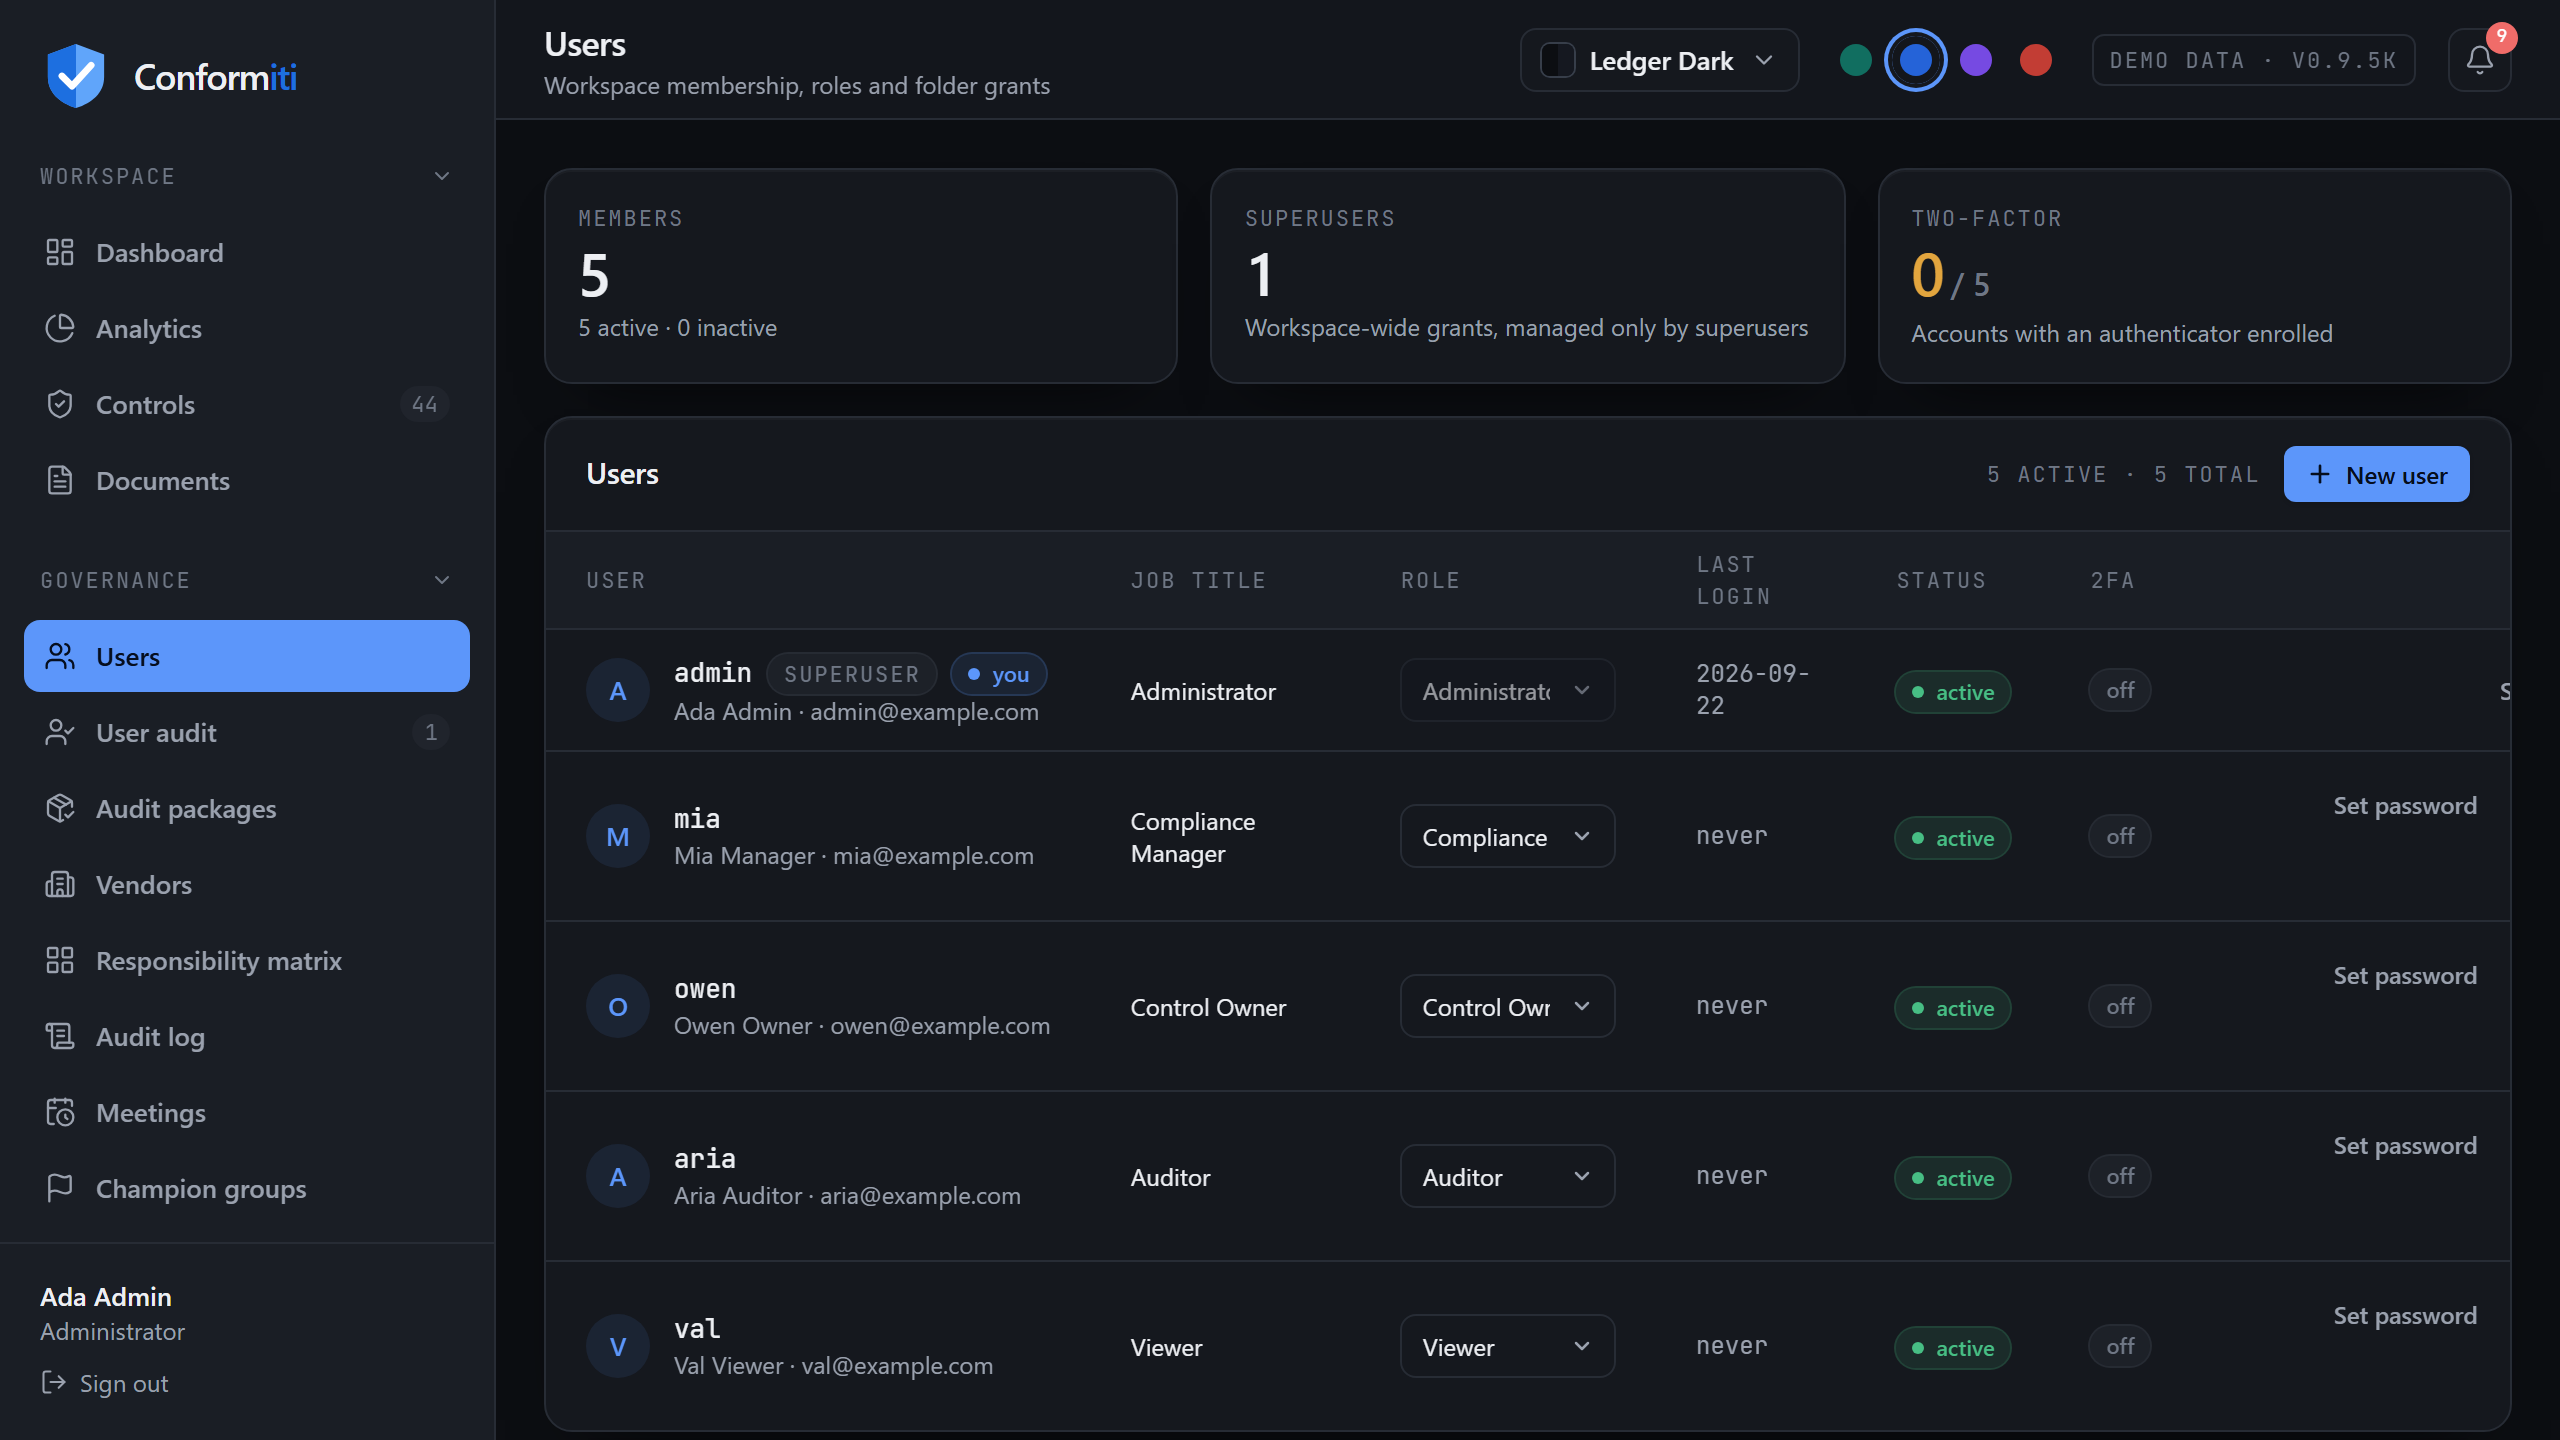
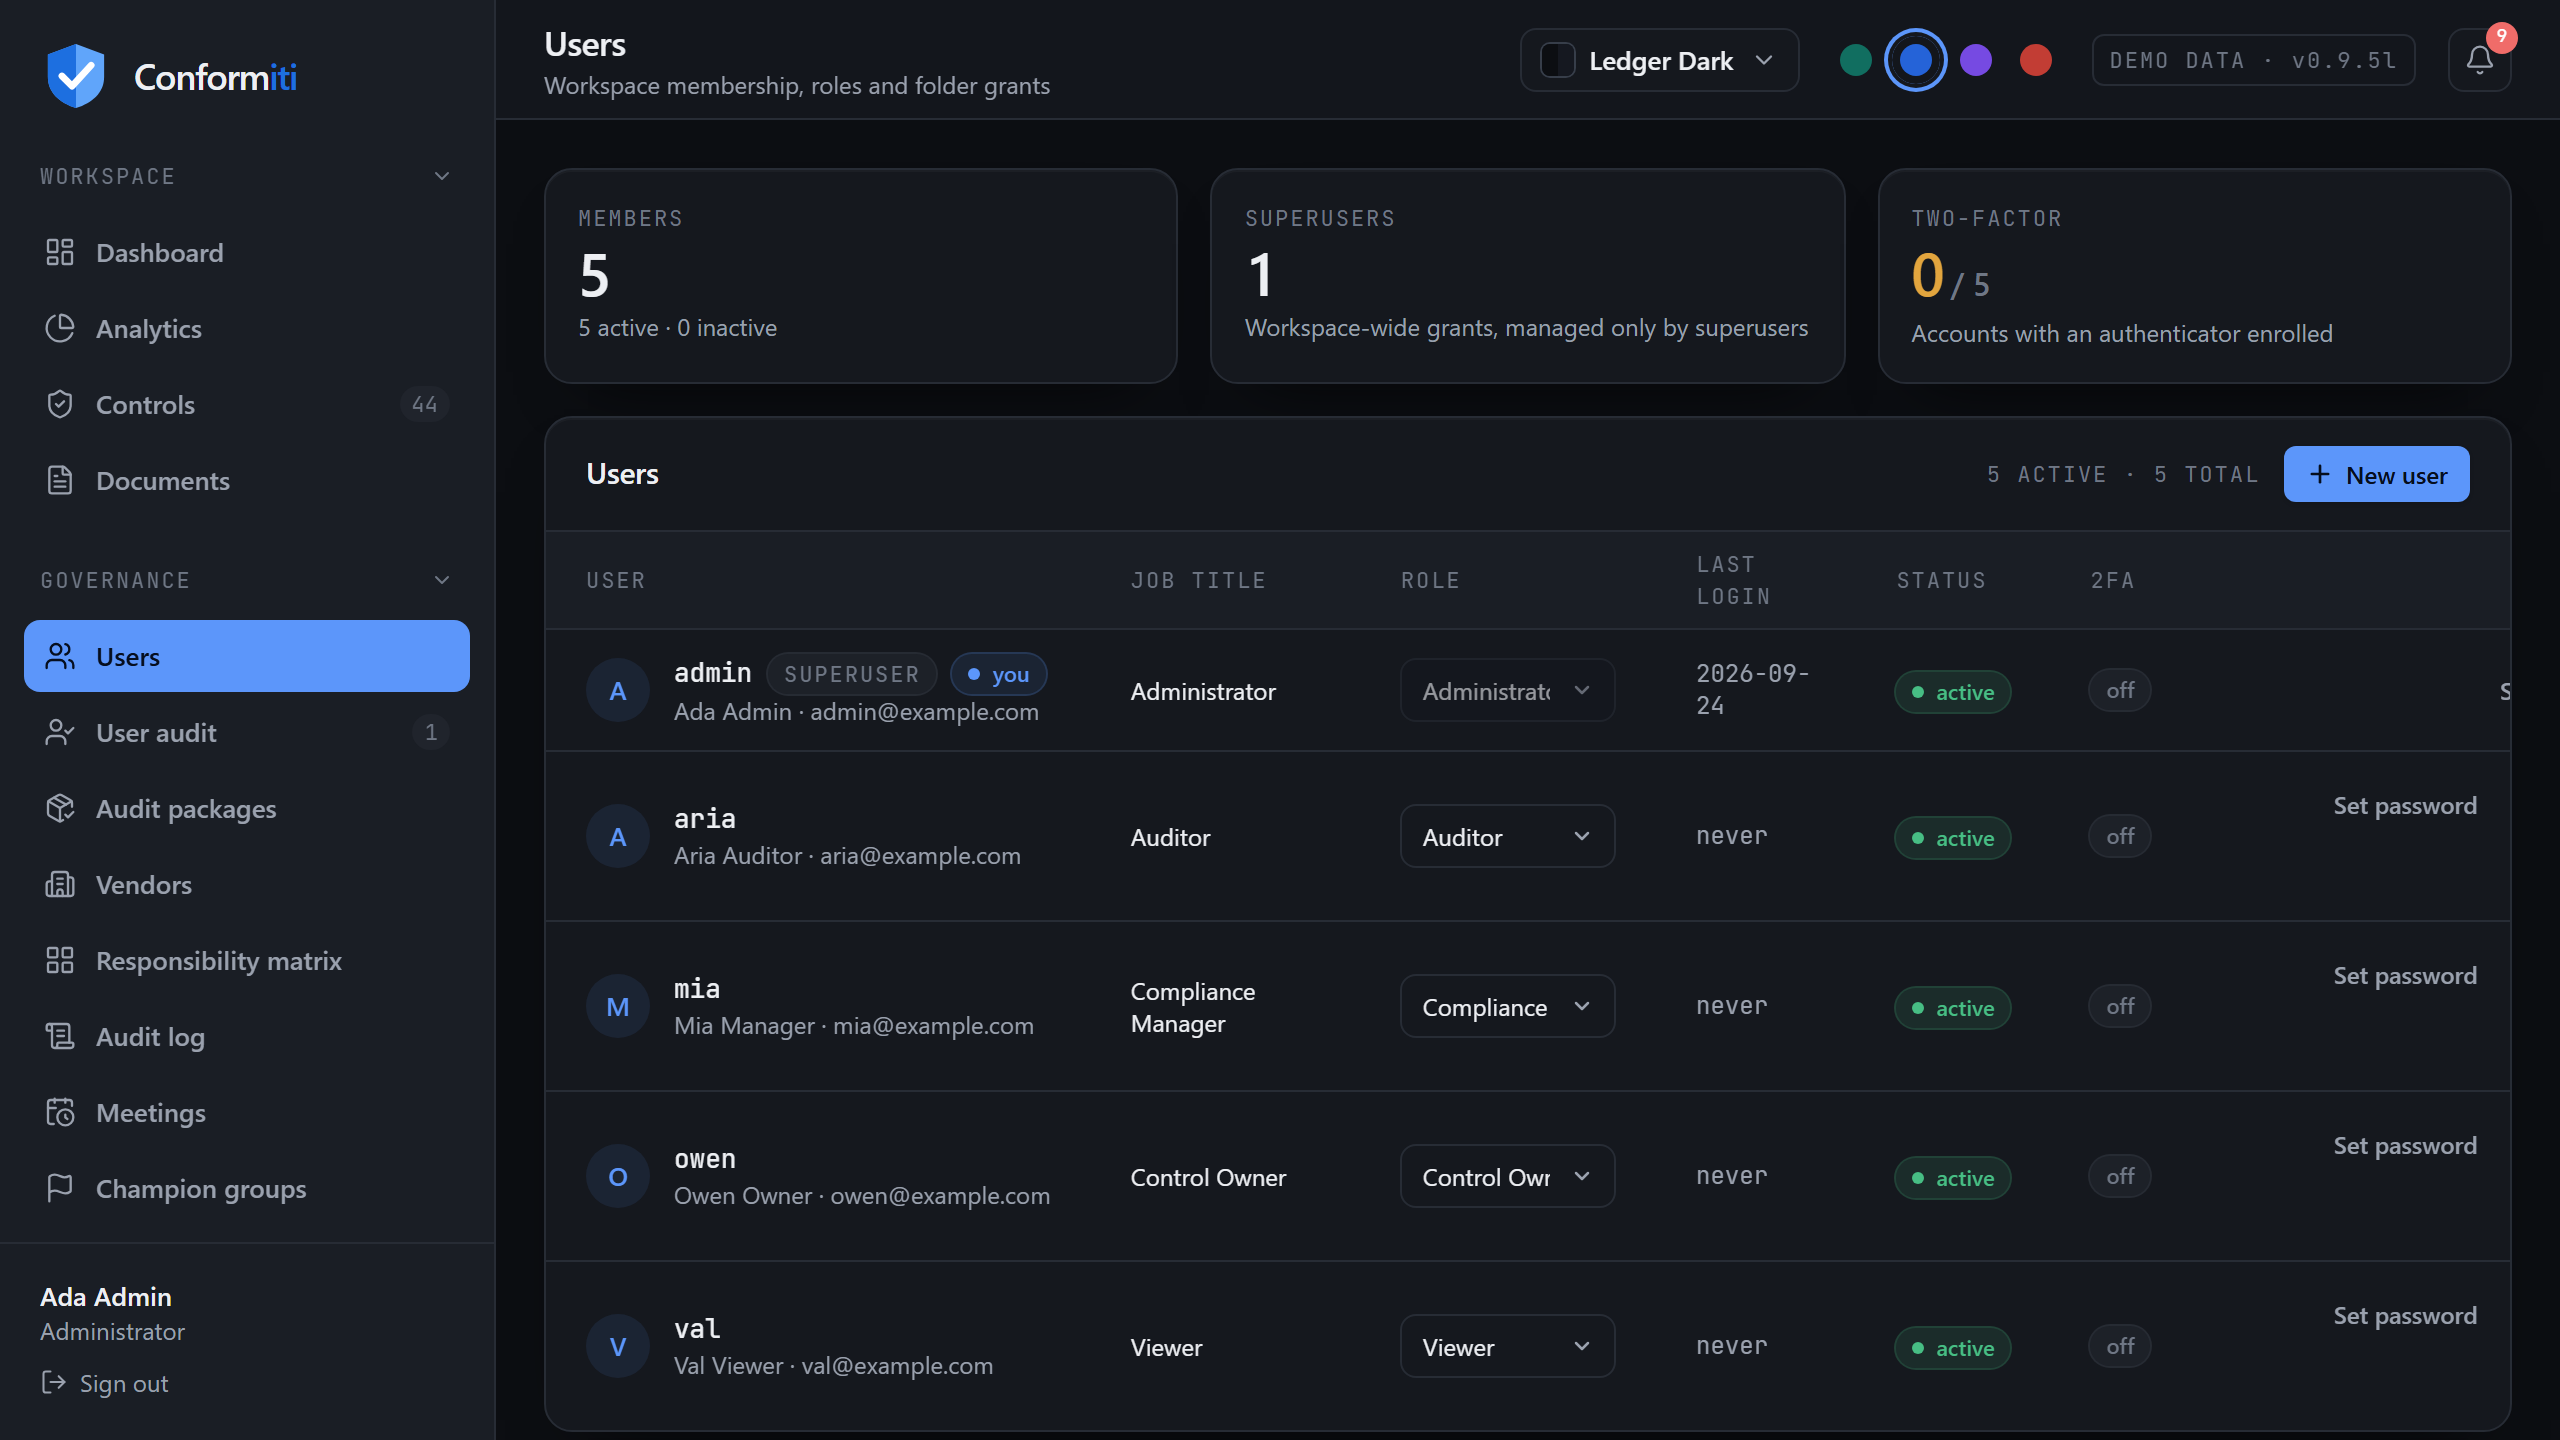
0.9.5l: release the clean-install fixes

diff --git a/backend/config/version.py b/backend/config/version.py
@@ -3,4 +3,4 @@
 Read by the health endpoint, the entrypoint banner and the docs tooling.
 Bump this together with CHANGELOG.md.
 """
-__version__ = "0.9.5k"
+__version__ = "0.9.5l"

diff --git a/README.md b/README.md
@@ -5,7 +5,7 @@
 **Self-hosted GRC for SOC 2, ISO/IEC 27001:2022 and PCI DSS v4.0.1: controls, evidence, vendors, risk and access reviews in one audit-ready system, ending in a sealed package your assessor can verify without you.**
 
 [![CI](https://github.com/dboudreau00/Conformiti/actions/workflows/ci.yml/badge.svg)](https://github.com/dboudreau00/Conformiti/actions/workflows/ci.yml)
-[![Release](https://img.shields.io/badge/release-v0.9.5k-1D6FE0.svg)](CHANGELOG.md)
+[![Release](https://img.shields.io/badge/release-v0.9.5l-1D6FE0.svg)](CHANGELOG.md)
 [![License: MIT](https://img.shields.io/badge/License-MIT-green.svg)](LICENSE)
 ![Python](https://img.shields.io/badge/Python-3.11%20to%203.14-3776AB?logo=python&logoColor=white)
 ![Django](https://img.shields.io/badge/Django-5.2%20LTS-092E20?logo=django&logoColor=white)
@@ -586,16 +586,16 @@ a guided first hour in [GETTING_STARTED.md](GETTING_STARTED.md).
 
 Both are built for `linux/amd64` and `linux/arm64`, so the same tag runs on an
 Ampere or Graviton VPS and on an Apple Silicon laptop. Each release is tagged
-with its version (`0.9.5k`), with the first seven characters of the commit it
+with its version (`0.9.5l`), with the first seven characters of the commit it
 was built from (`sha-…`), and the newest release also answers to `latest`. The version an image carries
 is read out of `backend/config/version.py` at build time, which is the same
 string `/api/health/` reports, so a running container cannot claim a version
 its code is not.
 
 ```bash
-docker pull ghcr.io/dboudreau00/conformiti-backend:0.9.5k
-CONFORMITI_VERSION=0.9.5k docker compose -f docker-compose.yml -f docker-compose.ghcr.yml pull
-CONFORMITI_VERSION=0.9.5k docker compose -f docker-compose.yml -f docker-compose.ghcr.yml up -d
+docker pull ghcr.io/dboudreau00/conformiti-backend:0.9.5l
+CONFORMITI_VERSION=0.9.5l docker compose -f docker-compose.yml -f docker-compose.ghcr.yml pull
+CONFORMITI_VERSION=0.9.5l docker compose -f docker-compose.yml -f docker-compose.ghcr.yml up -d
 ```
 
 `docker-compose.ghcr.yml` only swaps the four built services for the published
@@ -857,7 +857,7 @@ release tags; `main` is the development line. After `git fetch --tags`,
 
 ```bash
 scripts/backup.sh                 # first, always
-git fetch --tags && git checkout v0.9.5k
+git fetch --tags && git checkout v0.9.5l
 docker compose pull && docker compose up -d --build
 ```
 
@@ -874,7 +874,7 @@ back afterwards (after the backup, as always):
 
 ```bash
 git stash
-git fetch --tags && git checkout v0.9.5k
+git fetch --tags && git checkout v0.9.5l
 git stash pop                     # settle any conflict it reports, then rebuild
 ```
 
@@ -891,14 +891,14 @@ sets them:
 
 ```bash
 scripts/backup.sh
-git fetch --tags && git checkout v0.9.5k
+git fetch --tags && git checkout v0.9.5l
 unset CONFORMITI_VERSION          # an exported pin overrides the one in .env
-# In .env, move the pin to the new release: CONFORMITI_VERSION=0.9.5k
+# In .env, move the pin to the new release: CONFORMITI_VERSION=0.9.5l
 docker compose pull && docker compose up -d
 ```
 
 Change the pin in `.env`, not on the command line. A version given inline
-(`CONFORMITI_VERSION=0.9.5k docker compose ...`) or exported lasts for that
+(`CONFORMITI_VERSION=0.9.5l docker compose ...`) or exported lasts for that
 one command or shell. The next short-form command, an `up -d` after any
 `.env` edit or `scripts/restore.sh`, reads the old pin from `.env` again and
 puts the previous release's images back on a database the new release has

diff --git a/INSTALL.md b/INSTALL.md
@@ -158,7 +158,7 @@ Like the base file, it needs Compose 2.24 or newer.
 in both commands, because `pull` and `up` each read it:
 
 ```bash
-export CONFORMITI_VERSION=0.9.5k
+export CONFORMITI_VERSION=0.9.5l
 docker compose -f docker-compose.yml -f docker-compose.ghcr.yml pull
 docker compose -f docker-compose.yml -f docker-compose.ghcr.yml up -d
 ```
@@ -175,11 +175,11 @@ reads for every command run in this directory, so the short forms (and
 
 ```ini
 COMPOSE_FILE=docker-compose.yml:docker-compose.ghcr.yml
-CONFORMITI_VERSION=0.9.5k
+CONFORMITI_VERSION=0.9.5l
 ```
 
 Keep the pin there too. The `export` above lasts for that shell, and a
-version given inline (`CONFORMITI_VERSION=0.9.5k docker compose ...`) for
+version given inline (`CONFORMITI_VERSION=0.9.5l docker compose ...`) for
 that one command. While the export lasts it overrides `.env`, so once the pin
 is written there, run `unset CONFORMITI_VERSION` and keep the variable out of
 shell profiles: the pin in `.env` is then the one every later command reads,
@@ -212,7 +212,7 @@ nginx read the file again.
 
 A container will tell you what it is: `curl -s localhost:8080/api/health/`
 reports the version compiled into the image, and
-`docker inspect ghcr.io/dboudreau00/conformiti-backend:0.9.5k` carries the
+`docker inspect ghcr.io/dboudreau00/conformiti-backend:0.9.5l` carries the
 commit it was built from in `org.opencontainers.image.revision`.
 
 Building from source remains the default, and stays supported: the images are

diff --git a/CHANGELOG.md b/CHANGELOG.md
@@ -11,7 +11,7 @@ says what changed and what to expect on upgrade.
 
 ---
 
-## [Unreleased]
+## [0.9.5l], 2026-09-23
 
 A clean-install test of 0.9.5k, run twice: the core installed from nothing
 the ways the README offers (Docker built from source, the published images,
